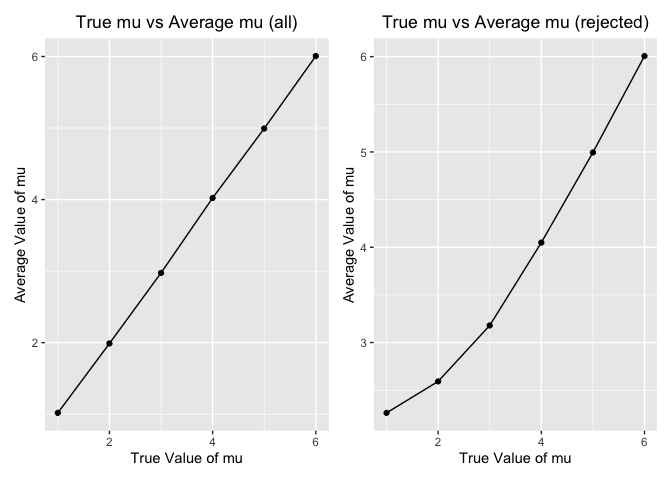
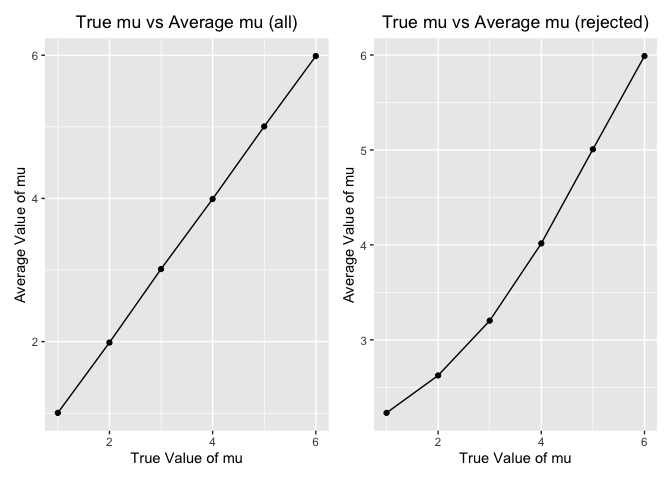
problem 1 update...

diff --git a/p8105_hw5_fy2297.md b/p8105_hw5_fy2297.md
@@ -30,9 +30,186 @@ library(rvest)
 library(httr)
 library(purrr)
 library(patchwork)
+library(viridis)
 ```
 
+    ## 载入需要的程辑包：viridisLite
+
 # Problem 1
+
+``` r
+full_df = 
+  tibble(
+    files = list.files("data/p1_data/"),
+    path = str_c("data/p1_data/", files)
+  ) %>% 
+  mutate(data = map(path, read_csv)) %>% 
+  unnest(data)
+```
+
+    ## Rows: 1 Columns: 8
+    ## ── Column specification ────────────────────────────────────────────────────────
+    ## Delimiter: ","
+    ## dbl (8): week_1, week_2, week_3, week_4, week_5, week_6, week_7, week_8
+    ## 
+    ## ℹ Use `spec()` to retrieve the full column specification for this data.
+    ## ℹ Specify the column types or set `show_col_types = FALSE` to quiet this message.
+    ## Rows: 1 Columns: 8
+    ## ── Column specification ────────────────────────────────────────────────────────
+    ## Delimiter: ","
+    ## dbl (8): week_1, week_2, week_3, week_4, week_5, week_6, week_7, week_8
+    ## 
+    ## ℹ Use `spec()` to retrieve the full column specification for this data.
+    ## ℹ Specify the column types or set `show_col_types = FALSE` to quiet this message.
+    ## Rows: 1 Columns: 8
+    ## ── Column specification ────────────────────────────────────────────────────────
+    ## Delimiter: ","
+    ## dbl (8): week_1, week_2, week_3, week_4, week_5, week_6, week_7, week_8
+    ## 
+    ## ℹ Use `spec()` to retrieve the full column specification for this data.
+    ## ℹ Specify the column types or set `show_col_types = FALSE` to quiet this message.
+    ## Rows: 1 Columns: 8
+    ## ── Column specification ────────────────────────────────────────────────────────
+    ## Delimiter: ","
+    ## dbl (8): week_1, week_2, week_3, week_4, week_5, week_6, week_7, week_8
+    ## 
+    ## ℹ Use `spec()` to retrieve the full column specification for this data.
+    ## ℹ Specify the column types or set `show_col_types = FALSE` to quiet this message.
+    ## Rows: 1 Columns: 8
+    ## ── Column specification ────────────────────────────────────────────────────────
+    ## Delimiter: ","
+    ## dbl (8): week_1, week_2, week_3, week_4, week_5, week_6, week_7, week_8
+    ## 
+    ## ℹ Use `spec()` to retrieve the full column specification for this data.
+    ## ℹ Specify the column types or set `show_col_types = FALSE` to quiet this message.
+    ## Rows: 1 Columns: 8
+    ## ── Column specification ────────────────────────────────────────────────────────
+    ## Delimiter: ","
+    ## dbl (8): week_1, week_2, week_3, week_4, week_5, week_6, week_7, week_8
+    ## 
+    ## ℹ Use `spec()` to retrieve the full column specification for this data.
+    ## ℹ Specify the column types or set `show_col_types = FALSE` to quiet this message.
+    ## Rows: 1 Columns: 8
+    ## ── Column specification ────────────────────────────────────────────────────────
+    ## Delimiter: ","
+    ## dbl (8): week_1, week_2, week_3, week_4, week_5, week_6, week_7, week_8
+    ## 
+    ## ℹ Use `spec()` to retrieve the full column specification for this data.
+    ## ℹ Specify the column types or set `show_col_types = FALSE` to quiet this message.
+    ## Rows: 1 Columns: 8
+    ## ── Column specification ────────────────────────────────────────────────────────
+    ## Delimiter: ","
+    ## dbl (8): week_1, week_2, week_3, week_4, week_5, week_6, week_7, week_8
+    ## 
+    ## ℹ Use `spec()` to retrieve the full column specification for this data.
+    ## ℹ Specify the column types or set `show_col_types = FALSE` to quiet this message.
+    ## Rows: 1 Columns: 8
+    ## ── Column specification ────────────────────────────────────────────────────────
+    ## Delimiter: ","
+    ## dbl (8): week_1, week_2, week_3, week_4, week_5, week_6, week_7, week_8
+    ## 
+    ## ℹ Use `spec()` to retrieve the full column specification for this data.
+    ## ℹ Specify the column types or set `show_col_types = FALSE` to quiet this message.
+    ## Rows: 1 Columns: 8
+    ## ── Column specification ────────────────────────────────────────────────────────
+    ## Delimiter: ","
+    ## dbl (8): week_1, week_2, week_3, week_4, week_5, week_6, week_7, week_8
+    ## 
+    ## ℹ Use `spec()` to retrieve the full column specification for this data.
+    ## ℹ Specify the column types or set `show_col_types = FALSE` to quiet this message.
+    ## Rows: 1 Columns: 8
+    ## ── Column specification ────────────────────────────────────────────────────────
+    ## Delimiter: ","
+    ## dbl (8): week_1, week_2, week_3, week_4, week_5, week_6, week_7, week_8
+    ## 
+    ## ℹ Use `spec()` to retrieve the full column specification for this data.
+    ## ℹ Specify the column types or set `show_col_types = FALSE` to quiet this message.
+    ## Rows: 1 Columns: 8
+    ## ── Column specification ────────────────────────────────────────────────────────
+    ## Delimiter: ","
+    ## dbl (8): week_1, week_2, week_3, week_4, week_5, week_6, week_7, week_8
+    ## 
+    ## ℹ Use `spec()` to retrieve the full column specification for this data.
+    ## ℹ Specify the column types or set `show_col_types = FALSE` to quiet this message.
+    ## Rows: 1 Columns: 8
+    ## ── Column specification ────────────────────────────────────────────────────────
+    ## Delimiter: ","
+    ## dbl (8): week_1, week_2, week_3, week_4, week_5, week_6, week_7, week_8
+    ## 
+    ## ℹ Use `spec()` to retrieve the full column specification for this data.
+    ## ℹ Specify the column types or set `show_col_types = FALSE` to quiet this message.
+    ## Rows: 1 Columns: 8
+    ## ── Column specification ────────────────────────────────────────────────────────
+    ## Delimiter: ","
+    ## dbl (8): week_1, week_2, week_3, week_4, week_5, week_6, week_7, week_8
+    ## 
+    ## ℹ Use `spec()` to retrieve the full column specification for this data.
+    ## ℹ Specify the column types or set `show_col_types = FALSE` to quiet this message.
+    ## Rows: 1 Columns: 8
+    ## ── Column specification ────────────────────────────────────────────────────────
+    ## Delimiter: ","
+    ## dbl (8): week_1, week_2, week_3, week_4, week_5, week_6, week_7, week_8
+    ## 
+    ## ℹ Use `spec()` to retrieve the full column specification for this data.
+    ## ℹ Specify the column types or set `show_col_types = FALSE` to quiet this message.
+    ## Rows: 1 Columns: 8
+    ## ── Column specification ────────────────────────────────────────────────────────
+    ## Delimiter: ","
+    ## dbl (8): week_1, week_2, week_3, week_4, week_5, week_6, week_7, week_8
+    ## 
+    ## ℹ Use `spec()` to retrieve the full column specification for this data.
+    ## ℹ Specify the column types or set `show_col_types = FALSE` to quiet this message.
+    ## Rows: 1 Columns: 8
+    ## ── Column specification ────────────────────────────────────────────────────────
+    ## Delimiter: ","
+    ## dbl (8): week_1, week_2, week_3, week_4, week_5, week_6, week_7, week_8
+    ## 
+    ## ℹ Use `spec()` to retrieve the full column specification for this data.
+    ## ℹ Specify the column types or set `show_col_types = FALSE` to quiet this message.
+    ## Rows: 1 Columns: 8
+    ## ── Column specification ────────────────────────────────────────────────────────
+    ## Delimiter: ","
+    ## dbl (8): week_1, week_2, week_3, week_4, week_5, week_6, week_7, week_8
+    ## 
+    ## ℹ Use `spec()` to retrieve the full column specification for this data.
+    ## ℹ Specify the column types or set `show_col_types = FALSE` to quiet this message.
+    ## Rows: 1 Columns: 8
+    ## ── Column specification ────────────────────────────────────────────────────────
+    ## Delimiter: ","
+    ## dbl (8): week_1, week_2, week_3, week_4, week_5, week_6, week_7, week_8
+    ## 
+    ## ℹ Use `spec()` to retrieve the full column specification for this data.
+    ## ℹ Specify the column types or set `show_col_types = FALSE` to quiet this message.
+    ## Rows: 1 Columns: 8
+    ## ── Column specification ────────────────────────────────────────────────────────
+    ## Delimiter: ","
+    ## dbl (8): week_1, week_2, week_3, week_4, week_5, week_6, week_7, week_8
+    ## 
+    ## ℹ Use `spec()` to retrieve the full column specification for this data.
+    ## ℹ Specify the column types or set `show_col_types = FALSE` to quiet this message.
+
+``` r
+tidy_df = 
+  full_df %>% 
+  mutate(
+    files = str_replace(files, ".csv", ""),
+    group = str_sub(files, 1, 3)) %>% 
+  pivot_longer(
+    week_1:week_8,
+    names_to = "week",
+    values_to = "outcome",
+    names_prefix = "week_") %>% 
+  mutate(week = as.numeric(week)) %>% 
+  select(group, subj = files, week, outcome)
+
+tidy_df %>% 
+  ggplot(aes(x = week, y = outcome, group = subj, color = group)) + 
+  geom_point() + 
+  geom_path() + 
+  facet_grid(~group)
+```
+
+![](p8105_hw5_fy2297_files/figure-gfm/unnamed-chunk-2-1.png)<!-- -->
 
 # Problem 2
 
@@ -71,8 +248,12 @@ homicide_summary_df =
   summarize(
     total_homicides = n(),
     unsolved_homicides = sum(disposition == "unresolved")
-  )
+  )%>% 
+  filter(city_state != "Tulsa,AL") 
 ```
+
+Tulsa,AL was filtered out because it should be a typo. There are 50
+observations after filtering out Tulsa,AL
 
 ``` r
 # About Baltimore, MD
@@ -82,7 +263,8 @@ Baltimore_df =
 
 test_stats_Baltimore = 
 prop.test(
-  Baltimore_df$unsolved_homicides,Baltimore_df$total_homicides) %>% 
+  Baltimore_df %>% pull(unsolved_homicides),Baltimore_df %>% pull(total_homicides)
+  ) %>% 
   broom::tidy()
 ```
 
@@ -104,15 +286,12 @@ test_stats_all =
   )
 ```
 
-    ## Warning in prop.test(.x, .y): Chi-squared近似算法有可能不准
-
     ## Warning: `cols` is now required when using unnest().
     ## Please use `cols = c(test_stats)`
 
 ``` r
 # create a plot that shows the estimates and CIs for each city
-test_stats_all %>% 
-  filter(city_state != "Tulsa,AL") %>% 
+test_stats_all %>%
   mutate(city_state = fct_reorder(city_state, estimate)) %>% 
   ggplot(aes(x = city_state, y = estimate)) + geom_point() + geom_errorbar(aes(ymin = conf.low, ymax = conf.high)) +
   labs(title = "Unsolved Homicide Estimates and CIs",x = "City/State", y = "Proportions of Unsolved Homicides") +
@@ -120,11 +299,12 @@ test_stats_all %>%
   theme(plot.title = element_text(hjust = 0.5)) 
 ```
 
-![](p8105_hw5_fy2297_files/figure-gfm/unnamed-chunk-7-1.png)<!-- --> In
+![](p8105_hw5_fy2297_files/figure-gfm/unnamed-chunk-8-1.png)<!-- --> In
 the previous part of the problem, Tulsa,AL was not removed from the
 dataset of statistics because it didn’t influence anything. However,
 when making the plot, it was filtered out of the dataset to make the
-plot look more beautiful and tidy.
+plot look more beautiful and tidy.(it’s estimate is zero, and it has
+very wide confidence interval)
 
 # Problem 3
 
@@ -159,16 +339,16 @@ model_test
     ## # A tibble: 5,000 × 2
     ##    mu_hat p_value
     ##     <dbl>   <dbl>
-    ##  1 -0.834  0.331 
-    ##  2 -1.05   0.296 
-    ##  3  1.38   0.115 
-    ##  4  1.11   0.333 
-    ##  5  1.53   0.0968
-    ##  6  0.764  0.418 
-    ##  7  1.53   0.0505
-    ##  8  0.405  0.565 
-    ##  9  0.372  0.710 
-    ## 10  0.555  0.549 
+    ##  1 -1.34   0.175 
+    ##  2  0.520  0.556 
+    ##  3 -1.66   0.0956
+    ##  4  1.01   0.190 
+    ##  5 -0.524  0.525 
+    ##  6 -0.757  0.452 
+    ##  7  1.09   0.237 
+    ##  8 -0.932  0.173 
+    ##  9  1.32   0.148 
+    ## 10  0.593  0.536 
     ## # … with 4,990 more rows
 
 ``` r
@@ -207,7 +387,7 @@ plot_1 =
 plot_1
 ```
 
-![](p8105_hw5_fy2297_files/figure-gfm/unnamed-chunk-10-1.png)<!-- -->
+![](p8105_hw5_fy2297_files/figure-gfm/unnamed-chunk-11-1.png)<!-- -->
 description: From the plot, there is a general increasing trend, which
 means as the effect size increases, the power also increases.
 
@@ -241,7 +421,7 @@ plot_3  =
 plot_2 + plot_3
 ```
 
-![](p8105_hw5_fy2297_files/figure-gfm/unnamed-chunk-13-1.png)<!-- -->
+![](p8105_hw5_fy2297_files/figure-gfm/unnamed-chunk-14-1.png)<!-- -->
 description: from the right plot (for only rejected ones), as true value
 of mu increases, the average value of mu get closer to the true value,
 but when effect size is small, there are some deviations between average
